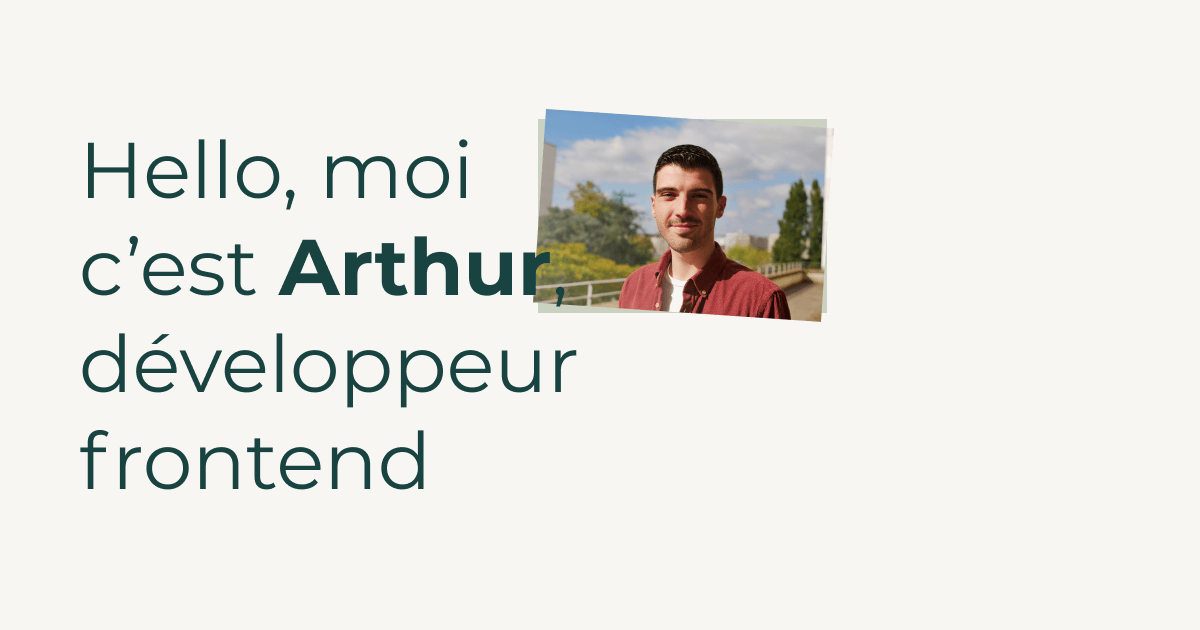
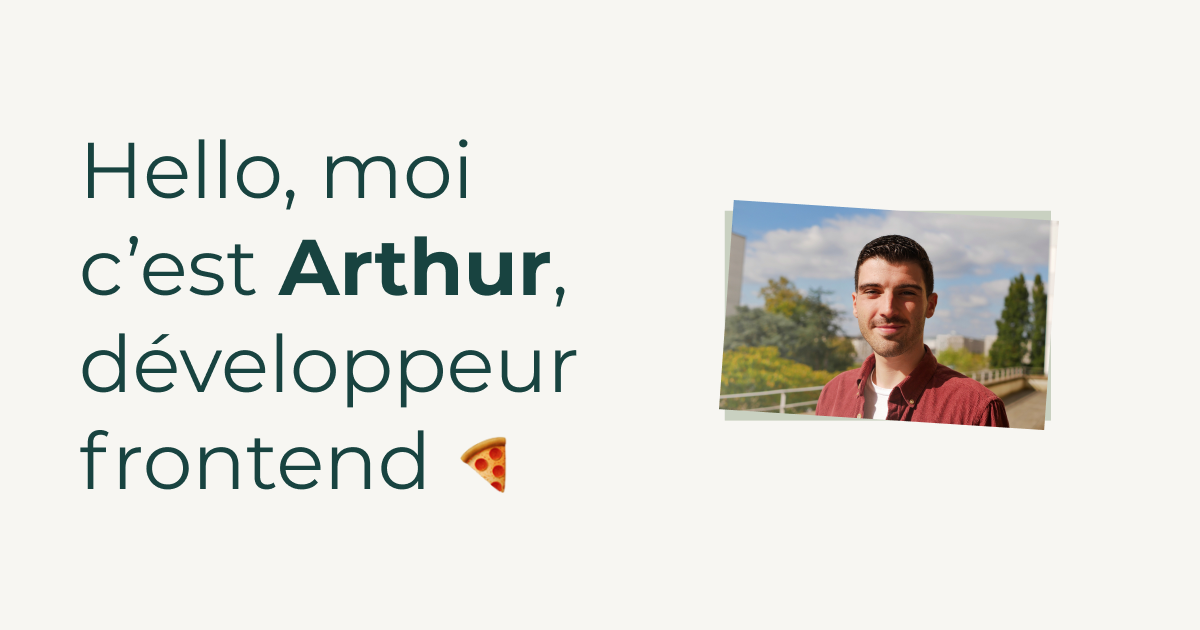
:dizzy: add my first scroll animation

Changed region(s): [[0.4317, 0.1508, 0.8942, 0.6937], [0.37, 0.6937, 0.4317, 0.7841]]

diff --git a/src/components/organisms/Header.js b/src/components/organisms/Header.js
@@ -1,9 +1,39 @@
 import React from 'react';
+import anime from 'animejs';
 import Title from '../atoms/Title';
 import { Link } from 'gatsby';
-import Arthur from '../../images/arthur.png';
+import { StaticImage } from 'gatsby-plugin-image';
 
 const Header = () => {
+  // useEffect(() => {
+  //   const about  =
+
+  // }, [])
+
+  const handleClick = (e) => {
+    e.preventDefault();
+    const link = new URL(e.target.href);
+    const targetElement = document.querySelector(link.hash);
+    const targetPosition = targetElement.getBoundingClientRect();
+    const targetY = targetPosition.y;
+    const scrollPosition = targetY + window.scrollY;
+
+    let animeObjPosition = {
+      newY: window.scrollY,
+    };
+
+    anime({
+      targets: animeObjPosition,
+      newY: scrollPosition,
+      easing: 'easeInOutQuart',
+      duration: 2000,
+      round: 1,
+      update: function () {
+        window.scrollTo(0, animeObjPosition.newY);
+      },
+    });
+  };
+
   return (
     <header className='header container '>
       <div className='header--title'>
@@ -15,24 +45,35 @@ const Header = () => {
       </div>
       <div className='header--menu'>
         <div className='header--img__wrapper'>
-          <img className='header--img' src={Arthur} alt='Arthur Sallé' />
+          <StaticImage
+            className='header--img'
+            src='../../images/arthur.png'
+            alt='Arthur Sallé'
+            width={352}
+            height={235}
+            quality={100}
+            draggable='false'
+          />
         </div>
         <div className='header--menu__btn'>
           <Link
-            to='#about'
-            className='btn btn--center btn--green rotate-first '
+            to='/#about'
+            className='btn btn--center btn--green rotate-first'
+            onClick={handleClick}
           >
             À propos
           </Link>
           <Link
-            to='#projects'
+            to='/#projects'
             className='btn btn--center btn--green rotate-second'
+            onClick={handleClick}
           >
             Projets
           </Link>
           <Link
-            to='#contact'
+            to='/#contact'
             className='btn btn--center btn--green rotate-third'
+            onClick={handleClick}
           >
             Contact
           </Link>

diff --git a/src/pages/404.js b/src/pages/404.js
@@ -1,54 +1,11 @@
-import * as React from "react"
-import { Link } from "gatsby"
+import { navigate } from 'gatsby';
+import { useEffect } from 'react';
 
-// styles
-const pageStyles = {
-  color: "#232129",
-  padding: "96px",
-  fontFamily: "-apple-system, Roboto, sans-serif, serif",
-}
-const headingStyles = {
-  marginTop: 0,
-  marginBottom: 64,
-  maxWidth: 320,
-}
-
-const paragraphStyles = {
-  marginBottom: 48,
-}
-const codeStyles = {
-  color: "#8A6534",
-  padding: 4,
-  backgroundColor: "#FFF4DB",
-  fontSize: "1.25rem",
-  borderRadius: 4,
-}
-
-// markup
 const NotFoundPage = () => {
-  return (
-    <main style={pageStyles}>
-      <title>Not found</title>
-      <h1 style={headingStyles}>Page not found</h1>
-      <p style={paragraphStyles}>
-        Sorry{" "}
-        <span role="img" aria-label="Pensive emoji">
-          😔
-        </span>{" "}
-        we couldn’t find what you were looking for.
-        <br />
-        {process.env.NODE_ENV === "development" ? (
-          <>
-            <br />
-            Try creating a page in <code style={codeStyles}>src/pages/</code>.
-            <br />
-          </>
-        ) : null}
-        <br />
-        <Link to="/">Go home</Link>.
-      </p>
-    </main>
-  )
-}
+  useEffect(() => {
+    if (window !== 'undefined') navigate('/');
+  }, []);
+  return null;
+};
 
-export default NotFoundPage
+export default NotFoundPage;

diff --git a/src/pages/index.js b/src/pages/index.js
@@ -1,4 +1,4 @@
-import * as React from 'react';
+import React, { useEffect } from 'react';
 import Header from '../components/organisms/Header';
 import AboutSection from '../components/organisms/AboutSection';
 import Seo from '../components/organisms/Seo';
@@ -8,10 +8,12 @@ import PersonalSection from '../components/organisms/PersonalSection';
 import Footer from '../components/organisms/Footer';
 
 const IndexPage = () => {
-  console.log(
-    '%c Hello !',
-    'padding-bottom: 15px; margin: 0 auto; font-weight: bold; font-size: 50px;color: red; text-shadow: 3px 3px 0 rgb(217,31,38) , 6px 6px 0 rgb(226,91,14) , 9px 9px 0 rgb(245,221,8) , 12px 12px 0 rgb(5,148,68) , 15px 15px 0 rgb(2,135,206) , 18px 18px 0 rgb(4,77,145) , 21px 21px 0 rgb(42,21,113)'
-  );
+  useEffect(() => {
+    console.log(
+      '%c Hello !',
+      'padding-bottom: 15px; margin: 0 auto; font-weight: bold; font-size: 50px;color: red; text-shadow: 3px 3px 0 rgb(217,31,38) , 6px 6px 0 rgb(226,91,14) , 9px 9px 0 rgb(245,221,8) , 12px 12px 0 rgb(5,148,68) , 15px 15px 0 rgb(2,135,206) , 18px 18px 0 rgb(4,77,145) , 21px 21px 0 rgb(42,21,113)'
+    );
+  }, []);
 
   return (
     <>

diff --git a/src/styles/components/header.scss b/src/styles/components/header.scss
@@ -1,11 +1,11 @@
 .header {
   display: flex;
   justify-content: space-between;
-  margin-top: 80px;
+  padding-top: 80px;
 
   @include media('<desktop') {
     flex-direction: column;
-    margin-top: 54px;
+    padding-top: 54px;
   }
 
   &--title {
@@ -53,16 +53,6 @@
       width: 100%;
       height: 100%;
       transform: rotate(-6deg);
-    }
-  }
-
-  &--img {
-    width: 352px;
-    height: 235px;
-
-    @include media('<landscape') {
-      width: 325px;
-      height: 225px;
     }
   }
 }

diff --git a/gatsby-config.js b/gatsby-config.js
@@ -16,11 +16,6 @@ module.exports = {
         path: './src/images/',
       },
       __key: 'images',
-
-      resolve: 'gatsby-plugin-anchor-links',
-      options: {
-        offset: -100,
-      },
     },
   ],
 };

diff --git a/src/styles/main.scss b/src/styles/main.scss
@@ -33,6 +33,7 @@ html {
   -webkit-text-size-adjust: none;
   //-webkit-font-smoothing: subpixel-antialiased;
   //-moz-osx-font-smoothing: grayscale;
+  scroll-behavior: none;
 }
 
 body {
